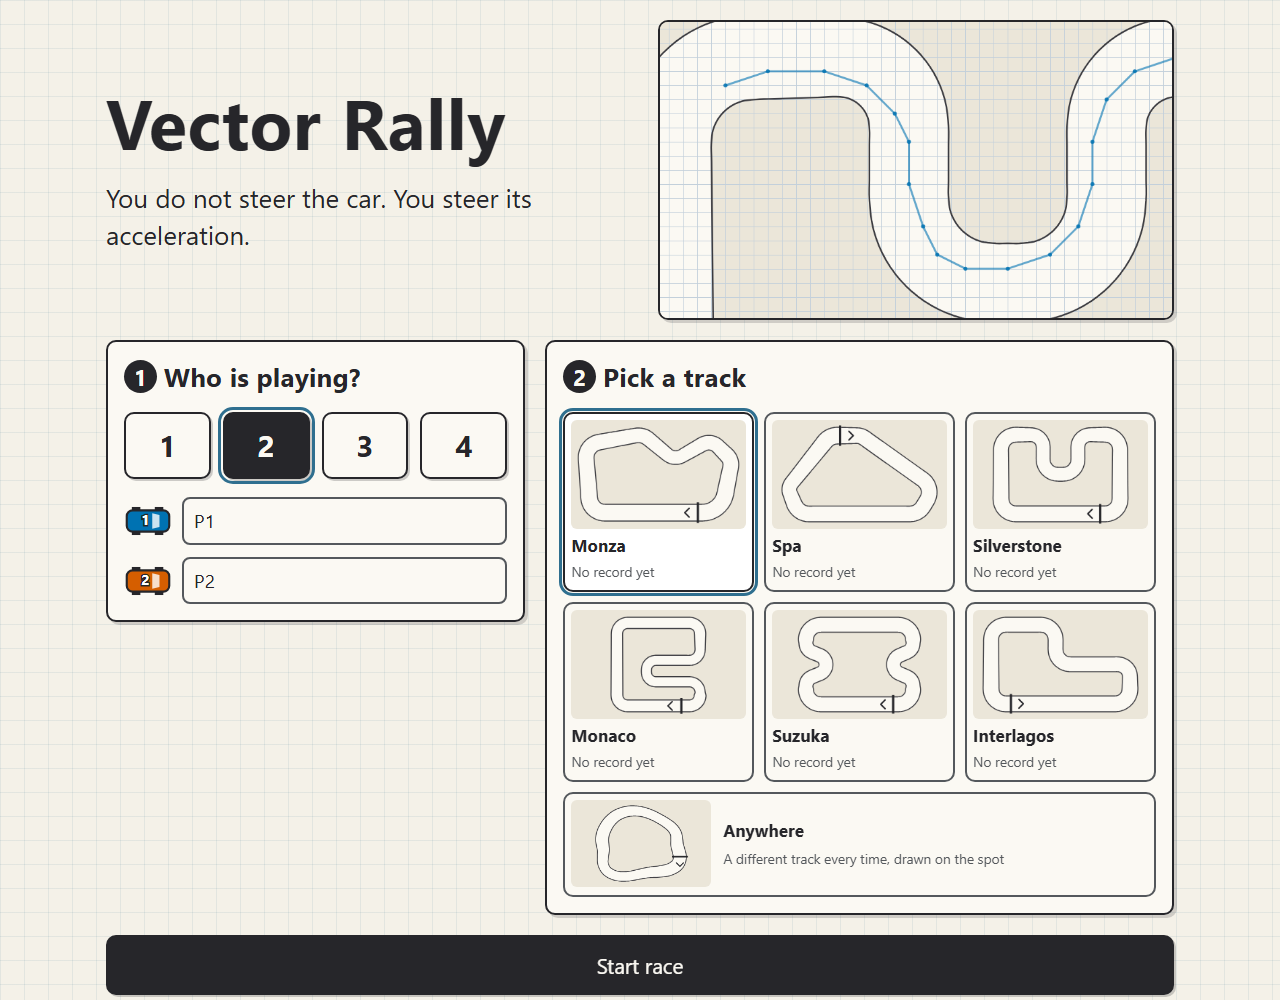
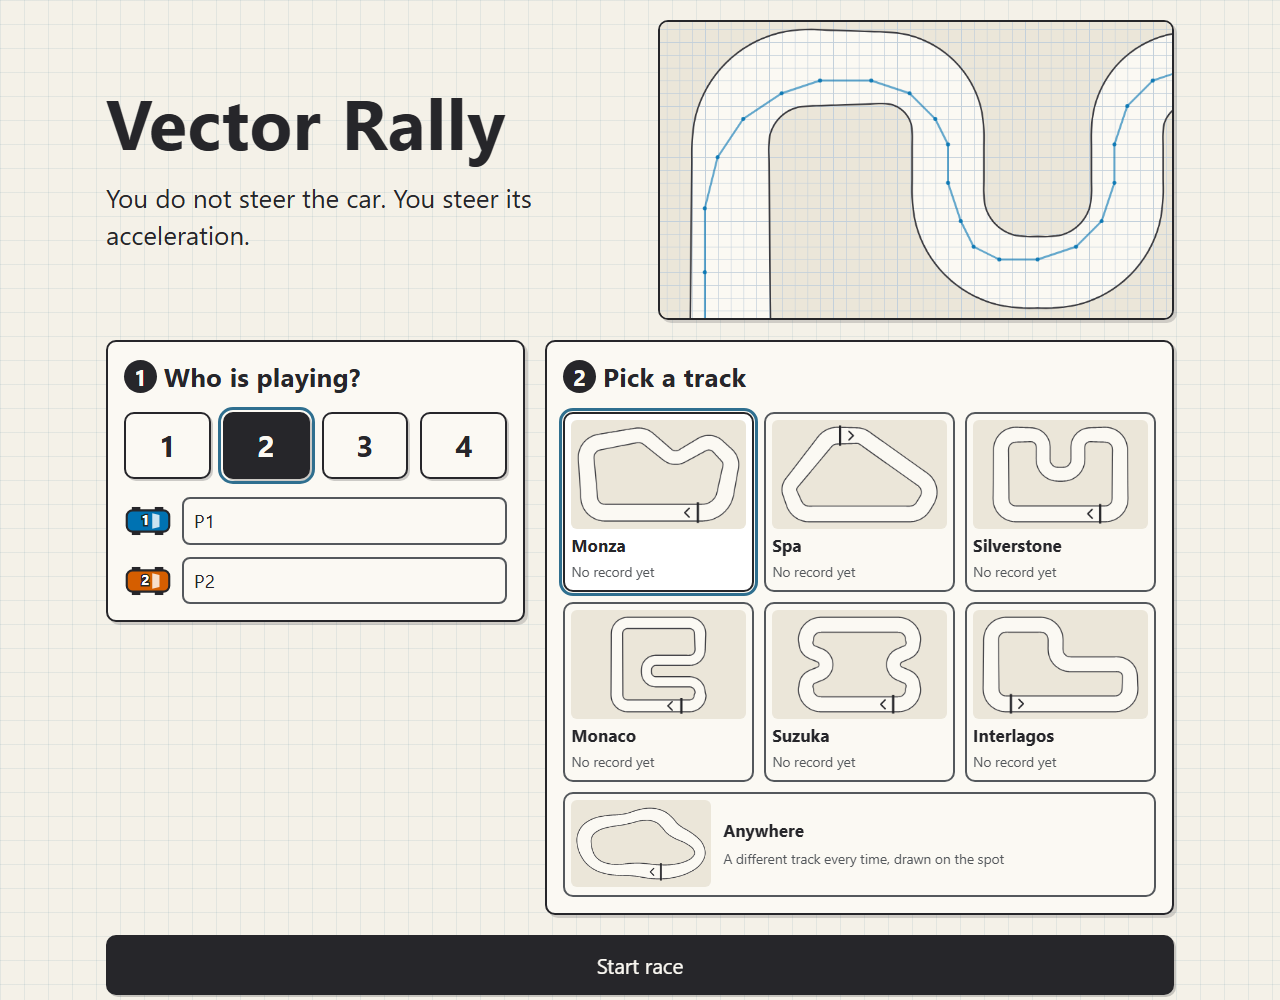
feat: the car in the picture drives in at the bottom left
The picture now starts with the car below the frame, on the left of the
track, and it drives in, round the corner, through the dip and out at the
top right as before, leaving its trace. The points before the old start
come from the same recorded run; the frame is widened to the left so the
left side of the track is in it.

Changed region(s): [[0.5, 0.0, 0.9375, 0.341], [0.4375, 0.806, 0.5625, 0.899]]

diff --git a/index.html b/index.html
@@ -852,32 +852,34 @@ function startRace() {
 // ---------------------------------------------------------------------------
 
 /**
- * A car on Silverstone: along the top, braking down into the dip in the
- * middle, round, and away out of the picture — once, leaving its trace
- * behind. The points are a real run under the real rules, recorded once and
+ * A car on Silverstone: in at the bottom left, up and round the corner, along
+ * the top, braking down into the dip in the middle, round, and away out of the
+ * picture — once, leaving its trace behind. The points are a real run under the real rules, recorded once and
  * written down here, from a search that was told to keep a whole unit clear of
  * the edge — so the car, drawn a little larger than it is, is never over the
  * line. The dots spread out where it is quick and bunch up where it has
  * braked, which is the whole game in one picture.
  *
- * The picture shows DEMO_FRAME of the paper. The last few points lie beyond
- * it, which is how the car drives out of the picture.
+ * The picture shows DEMO_FRAME of the paper. The first few points lie below
+ * it and the last few beyond it, which is how the car drives into the picture
+ * and out of it again.
  */
 const DEMO_TRACK = 'silverstone';
-const DEMO_FRAME = { minX: 8.5, maxX: 42.5, minY: 1.5, maxY: 22.5 };
+const DEMO_FRAME = { minX: 2.5, maxX: 42.5, minY: 1.5, maxY: 22.5 };
 const DEMO_PATH = [
-  [12, 6], [15, 5], [19, 5], [22, 6], [24, 8], [25, 10], [25, 13], [26, 16],
-  [27, 18], [29, 19], [32, 19], [35, 18], [37, 16], [38, 13], [38, 10], [39, 7],
-  [41, 5], [44, 4], [47, 4], [51, 5],
+  [9, 32], [7, 29], [6, 25], [6, 20], [6, 15], [7, 11], [9, 8], [12, 6],
+  [15, 5], [19, 5], [22, 6], [24, 8], [25, 10], [25, 13], [26, 16], [27, 18],
+  [29, 19], [32, 19], [35, 18], [37, 16], [38, 13], [38, 10], [39, 7], [41, 5],
+  [44, 4], [47, 4], [51, 5],
 ];
-const demo = { showing: 2, timer: null };
+const demo = { showing: 1, timer: null };
 
 function runDemo() {
   // Not every browser answers this, and the picture matters more than the
   // movement does.
   const still = typeof window.matchMedia === 'function'
     && window.matchMedia('(prefers-reduced-motion: reduce)').matches;
-  demo.showing = still ? DEMO_PATH.length : 2;
+  demo.showing = still ? DEMO_PATH.length : 1;
   drawDemo();
   window.clearInterval(demo.timer);
   if (still) return;
@@ -969,7 +971,7 @@ function drawDemo() {
   // Once the whole path is shown the car has gone, and only its trace is left.
   if (demo.showing >= DEMO_PATH.length) return;
   const [carX, carY] = at(...shown[shown.length - 1]);
-  paintCar(paint, carX, carY, headingAlong(shown), size * 1.2, PLAYER_COLORS[0]);
+  paintCar(paint, carX, carY, headingAlong(shown) ?? 0, size * 1.2, PLAYER_COLORS[0]);
 }
 
 // ---------------------------------------------------------------------------

diff --git a/version.js b/version.js
@@ -1,4 +1,4 @@
 // The one place the version is written down. index.html loads this with a
 // plain <script>, shows it on the start page, and stamps it into every race
 // state so a pasted state says which version made it.
-self.APP_VERSION = '3.1.1';
+self.APP_VERSION = '3.1.2';

diff --git a/README.md b/README.md
@@ -117,7 +117,8 @@ written into `index.html` as a list of points. The search that found it was
 told to keep a whole unit clear of the edge, so the car — drawn a little larger
 than it is, so it can be seen on a phone — is never over the line. The dots
 spread out where it is quick and bunch up where it has braked. It plays once:
-the car drives out of the picture and leaves its trace behind. For anyone who
+the car drives in at the bottom left, round the lap and out of the picture,
+and leaves its trace behind. For anyone who
 has asked their machine to stop animating things it is just the trace.
 
 ## Records
